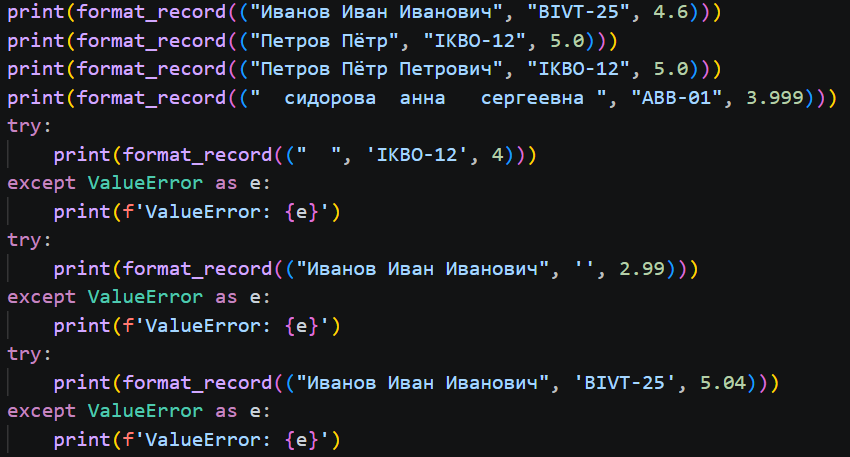
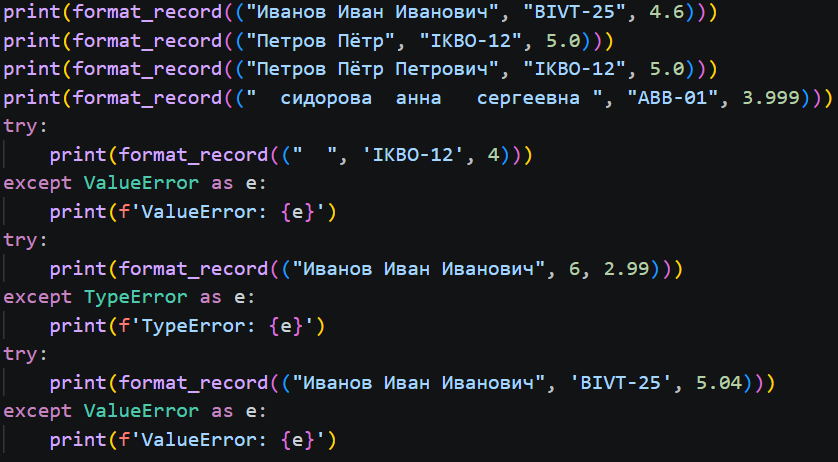
-

diff --git a/src/lab02/03_tuples.py b/src/lab02/03_tuples.py
@@ -1,9 +1,17 @@
 def format_record(rec: tuple[str, str, float]) -> str:
+    """
+    Форматирует кортеж с данными студента в строку.
+    
+    :rec: Кортеж вида (fio, group, gpa)
+    :raises TypeError: Если типы элементов кортежа не соответствуют (str, str, float/int).
+    :raises ValueError: Если ФИО или группа пустые после очистки, или GPA вне диапазона [0.0, 5.0].
+    :return: Сформированная строка по шаблону.
+    """
     if not isinstance(rec, tuple) or len(rec) != 3:
         raise TypeError("Запись должна быть кортежем из 3 элементов")
     fio, group, gpa = rec
     if not isinstance(fio, str) or not isinstance(group, str):
-        raise TypeError('ФИО и группы должны быть строками')
+        raise TypeError('ФИО и группа должны быть строками')
     if not isinstance(gpa, (int, float)):
         raise TypeError("GPA должен быть числом")
 
@@ -31,9 +39,9 @@ try:
 except ValueError as e:
     print(f'ValueError: {e}')
 try:
-    print(format_record(("Иванов Иван Иванович", '', 2.99)))
-except ValueError as e:
-    print(f'ValueError: {e}')
+    print(format_record(("Иванов Иван Иванович", 6, 2.99)))
+except TypeError as e:
+    print(f'TypeError: {e}')
 try:
     print(format_record(("Иванов Иван Иванович", 'BIVT-25', 5.04)))
 except ValueError as e:
